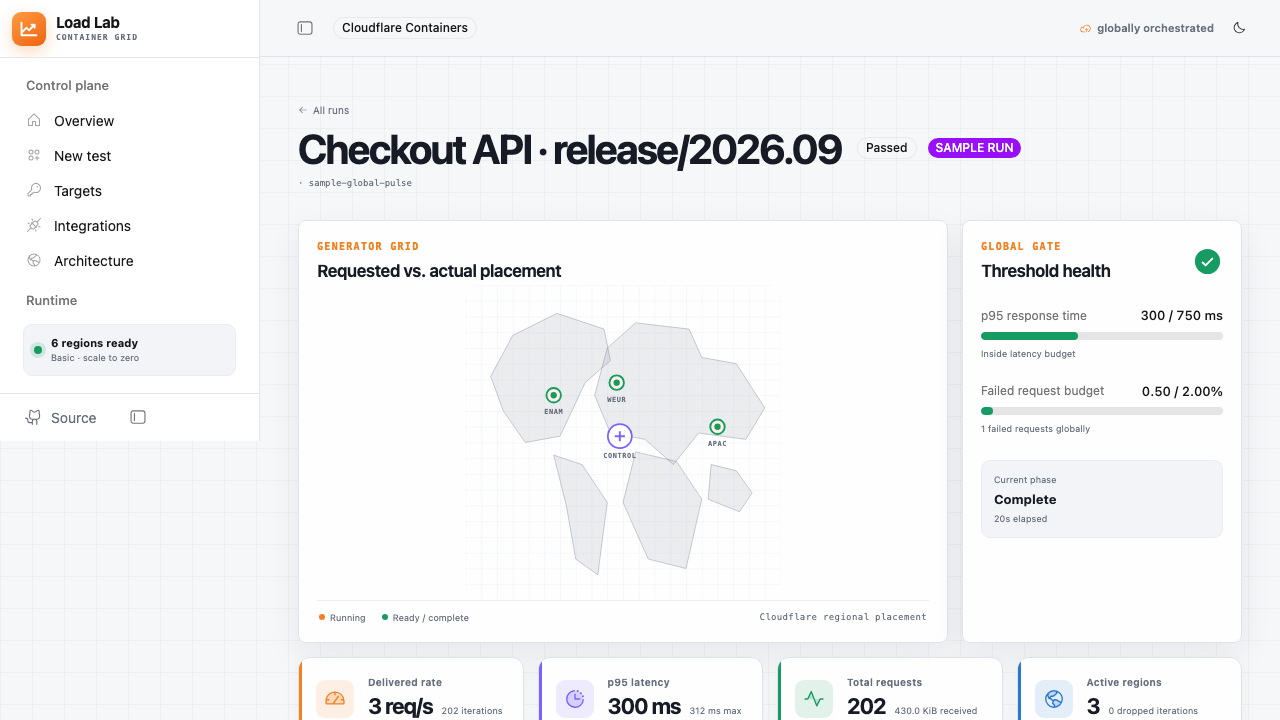
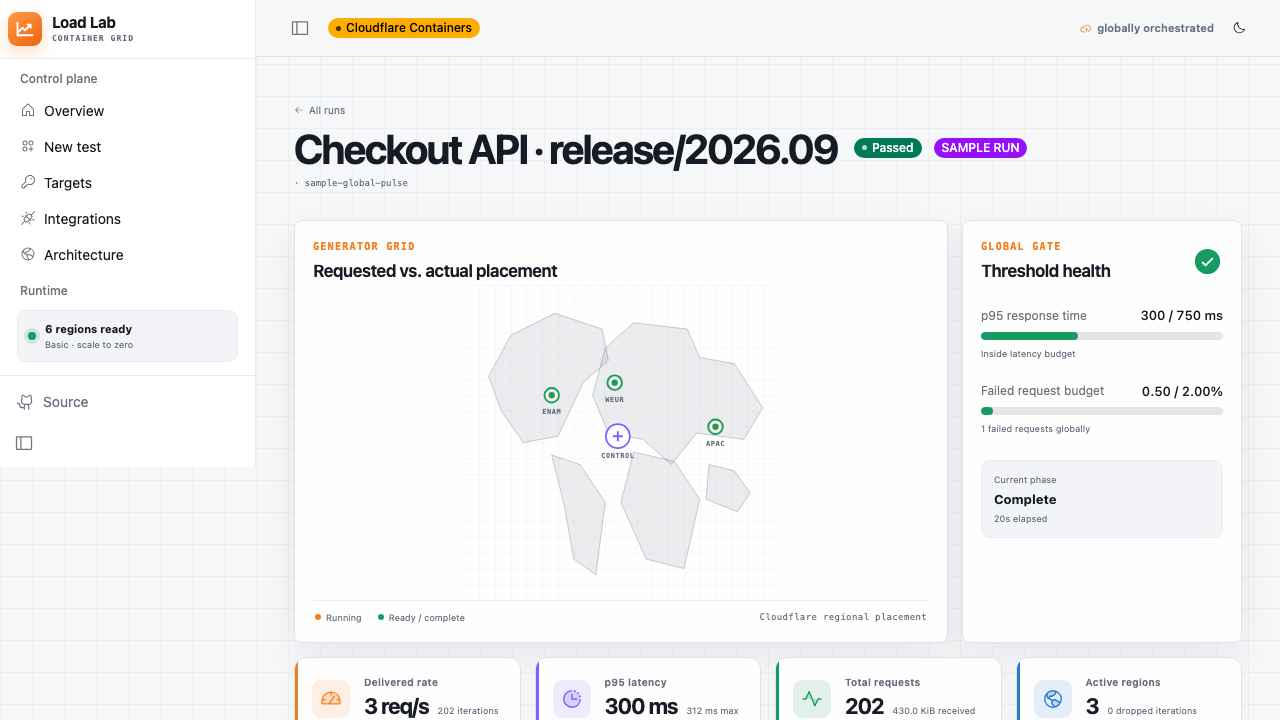
Pin Cloudflare Kumo 2.2.2

diff --git a/src/client/routes/Architecture.tsx b/src/client/routes/Architecture.tsx
@@ -27,8 +27,8 @@ export function Architecture({ capture = false }: { capture?: boolean }) {
               without multiplying load.
             </p>
           </div>
-          <Badge variant="orange" icon={<CubeIcon weight="fill" />}>
-            Cloudflare Containers
+          <Badge variant="orange" className="badge-with-icon">
+            <CubeIcon weight="fill" /> Cloudflare Containers
           </Badge>
         </div>
       )}
@@ -134,7 +134,7 @@ export function Architecture({ capture = false }: { capture?: boolean }) {
               <CubeIcon weight="fill" />
               <strong>Regional generator grid</strong>
             </div>
-            <Badge variant="green" appearance="dot">
+            <Badge variant="green" className="badge-with-dot">
               SCALE TO ZERO
             </Badge>
           </div>

diff --git a/src/client/routes/Targets.tsx b/src/client/routes/Targets.tsx
@@ -102,8 +102,8 @@ export function Targets() {
             control.
           </p>
         </div>
-        <Badge variant="green" icon={<ShieldCheckIcon weight="fill" />}>
-          Deny by default
+        <Badge variant="green" className="badge-with-icon">
+          <ShieldCheckIcon weight="fill" /> Deny by default
         </Badge>
       </div>
 
@@ -238,7 +238,7 @@ export function Targets() {
                               ? "red"
                               : "orange"
                         }
-                        appearance="dot"
+                        className="badge-with-dot"
                       >
                         {target.status}
                       </Badge>

diff --git a/src/client/components/RunCharts.tsx b/src/client/components/RunCharts.tsx
@@ -88,9 +88,13 @@ export function RunCharts({
           height={235}
           isDarkMode={isDark}
           gradient
-          data={[{ name: "p95 latency", color: "#7b61ff", data: latency }]}
-          thresholds={[
-            { value: p95Threshold, label: "Threshold", color: "#d9485f" },
+          data={[
+            { name: "p95 latency", color: "#7b61ff", data: latency },
+            {
+              name: "Threshold",
+              color: "#d9485f",
+              data: latency.map(([timestamp]) => [timestamp, p95Threshold]),
+            },
           ]}
           yAxisName="ms"
           yAxisTickCount={4}

diff --git a/src/client/styles.css b/src/client/styles.css
@@ -253,6 +253,26 @@ a {
   color: var(--ll-orange);
 }
 
+.badge-with-dot,
+.badge-with-icon {
+  gap: 5px;
+}
+
+.badge-with-dot::before {
+  width: 5px;
+  height: 5px;
+  flex: 0 0 auto;
+  border-radius: 50%;
+  background: currentColor;
+  content: "";
+  opacity: 0.72;
+}
+
+.badge-with-icon svg {
+  width: 12px;
+  height: 12px;
+}
+
 .eyebrow {
   display: block;
   color: var(--ll-orange);

diff --git a/src/client/components/AppShell.tsx b/src/client/components/AppShell.tsx
@@ -105,7 +105,7 @@ export function AppShell({ children }: { children: ReactNode }) {
         <header className="topbar">
           <div className="topbar-left">
             <Sidebar.Trigger />
-            <Badge variant="orange" appearance="dot">
+            <Badge variant="orange" className="badge-with-dot">
               Cloudflare Containers
             </Badge>
           </div>

diff --git a/src/client/routes/NewRun.tsx b/src/client/routes/NewRun.tsx
@@ -150,7 +150,10 @@ export function NewRun() {
             shard.
           </p>
         </div>
-        <Badge variant={ownerMode ? "green" : "orange"} appearance="dot">
+        <Badge
+          variant={ownerMode ? "green" : "orange"}
+          className="badge-with-dot"
+        >
           {ownerMode ? "Owner mode" : "Safe demo mode"}
         </Badge>
       </div>

diff --git a/src/client/components/StatusBadge.tsx b/src/client/components/StatusBadge.tsx
@@ -28,7 +28,7 @@ const statusStyle: Record<
 export function StatusBadge({ status }: { status: RunStatus }) {
   const style = statusStyle[status];
   return (
-    <Badge variant={style.variant} appearance="dot">
+    <Badge variant={style.variant} className="badge-with-dot">
       {status.charAt(0).toUpperCase() + status.slice(1)}
     </Badge>
   );

diff --git a/src/client/routes/Integrations.tsx b/src/client/routes/Integrations.tsx
@@ -66,8 +66,8 @@ export function Integrations() {
             workflows.
           </p>
         </div>
-        <Badge variant="purple" icon={<BracketsCurlyIcon weight="bold" />}>
-          API v1
+        <Badge variant="purple" className="badge-with-icon">
+          <BracketsCurlyIcon weight="bold" /> API v1
         </Badge>
       </div>
 

diff --git a/src/client/routes/RunDetail.tsx b/src/client/routes/RunDetail.tsx
@@ -310,7 +310,7 @@ export function RunDetail({
                             ? "orange"
                             : "green"
                       }
-                      appearance="dot"
+                      className="badge-with-dot"
                     >
                       {assignment.status}
                     </Badge>
